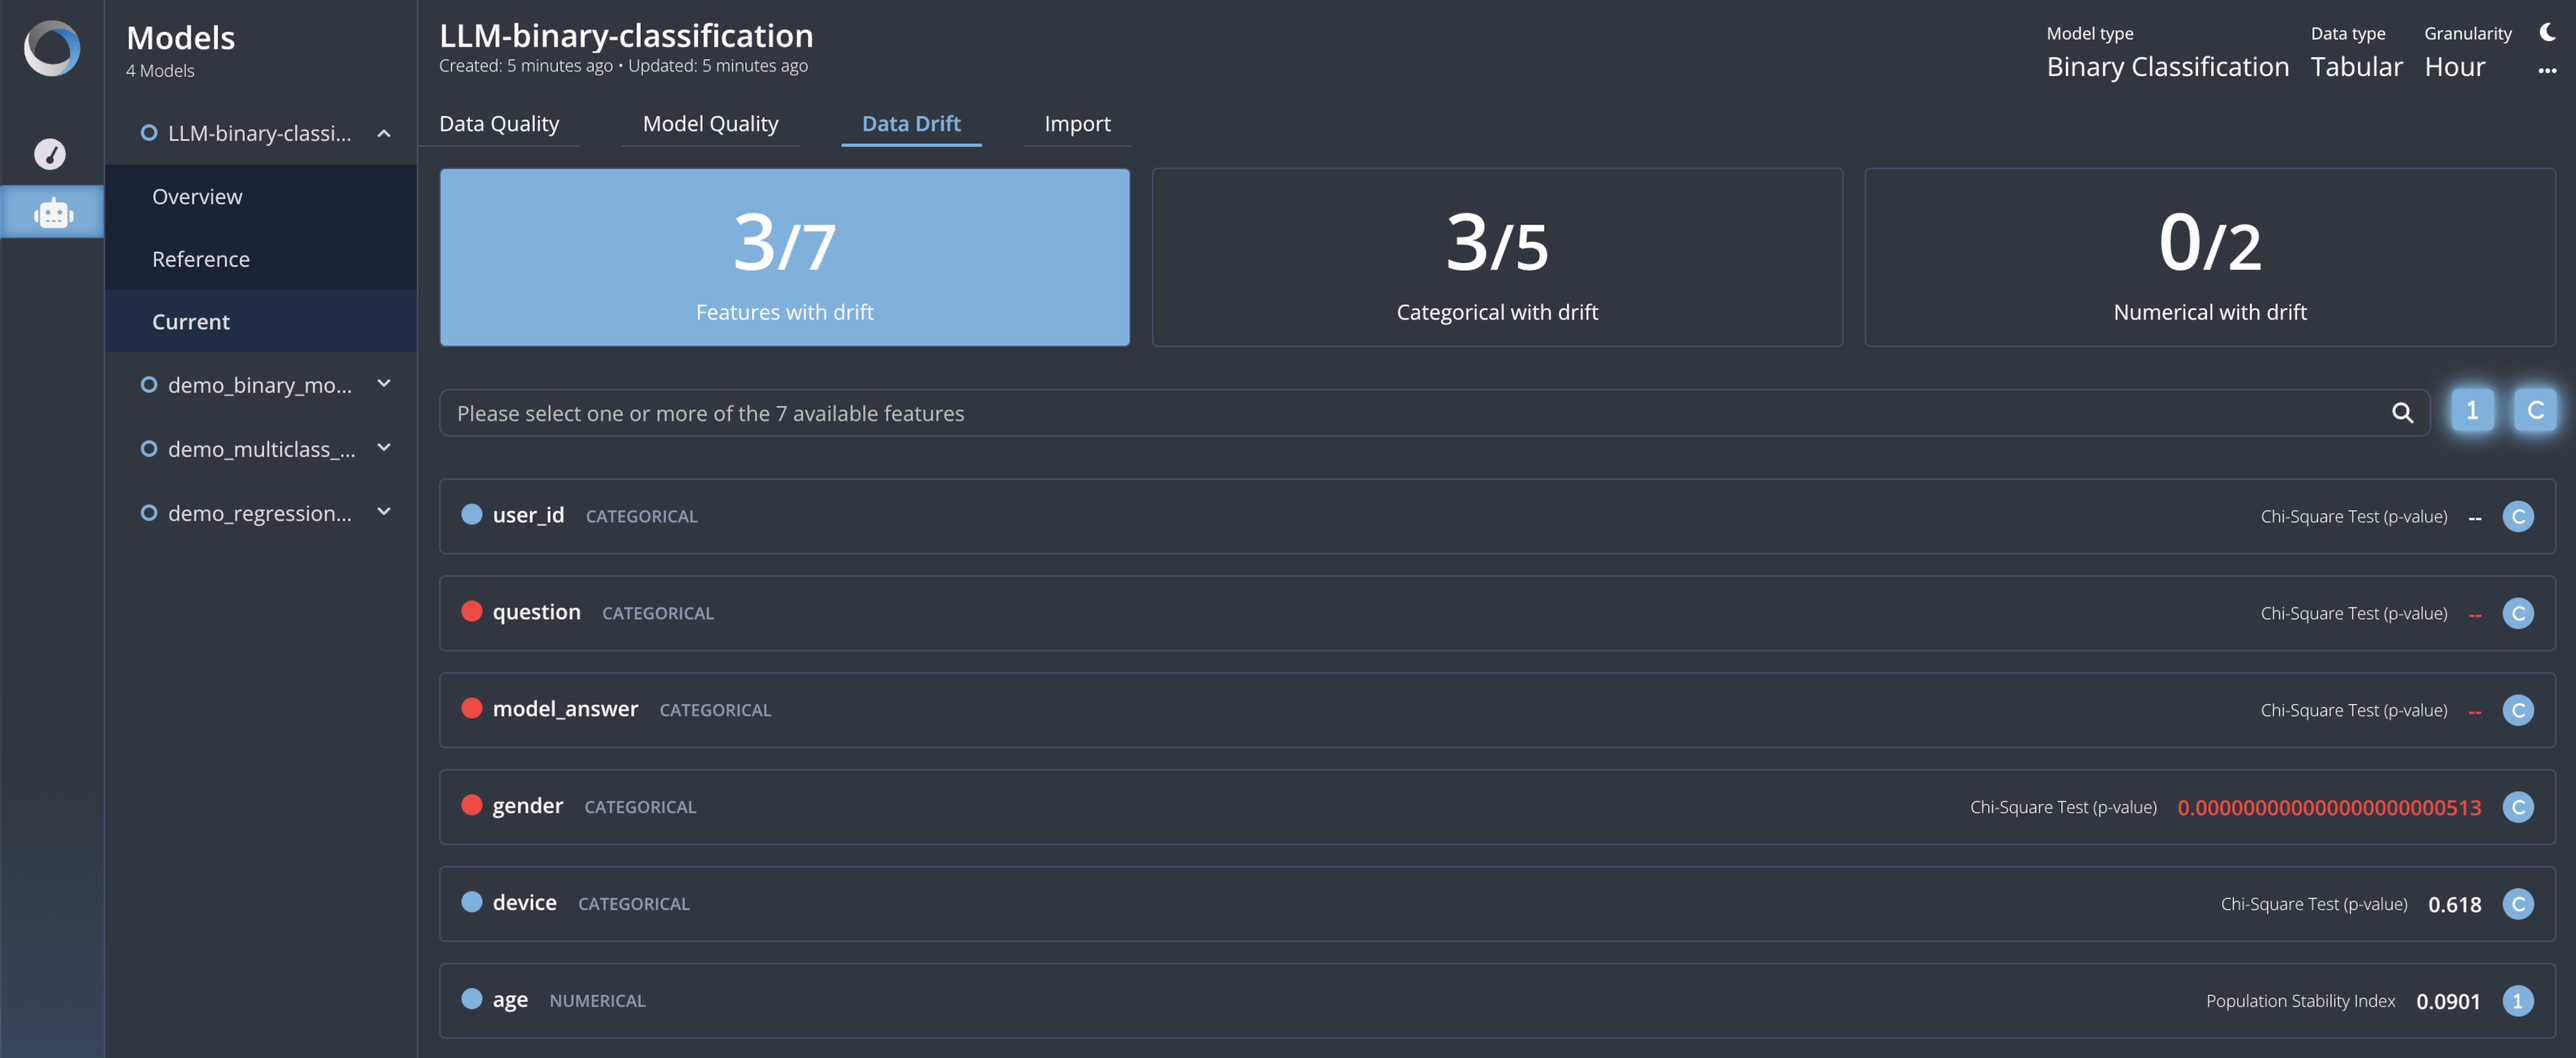
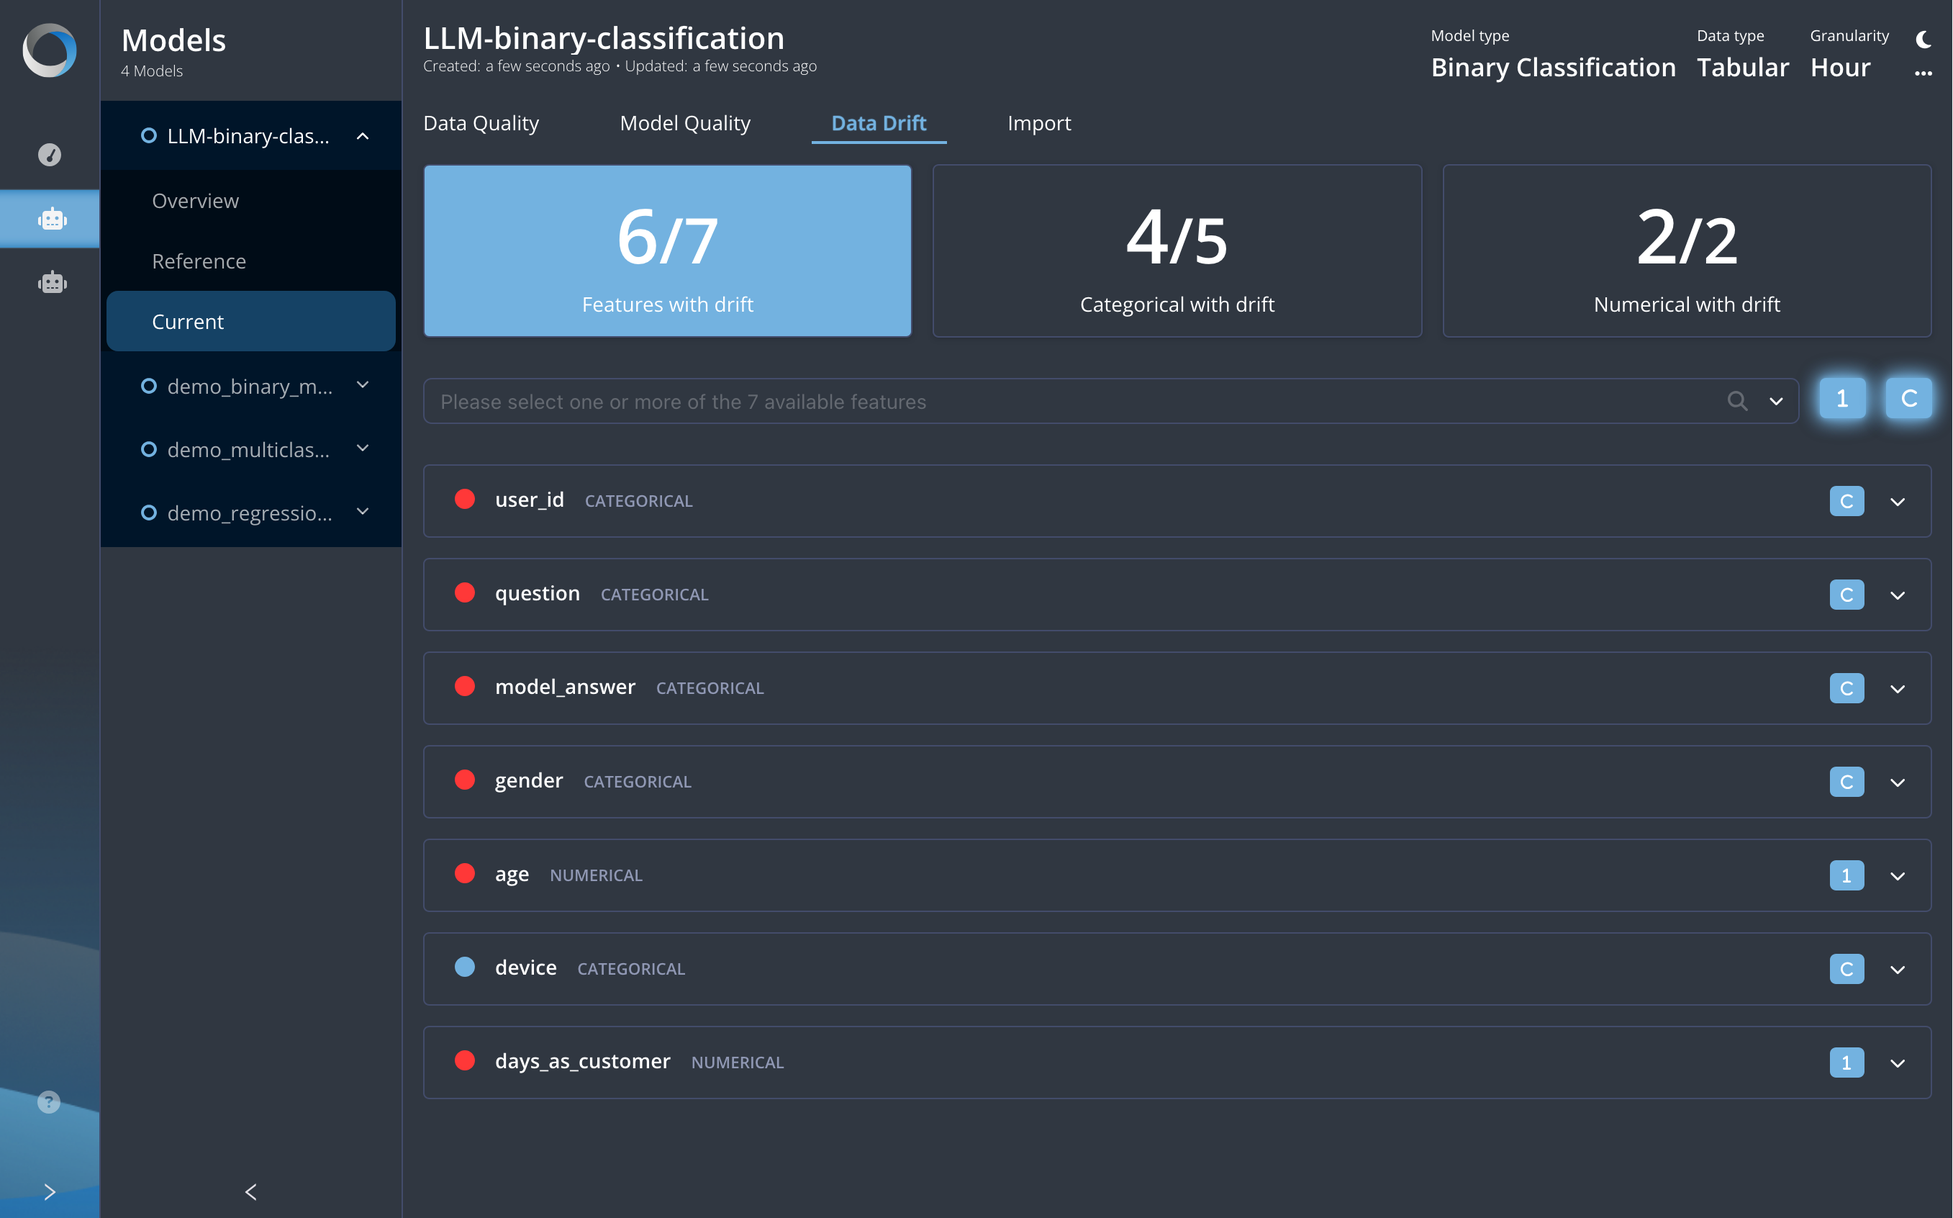
feat: add new drift doc (#157)
* feat" add new drift algo to all-metrics

* feat: add drift conf

* fix: refactor all metrics

* fix: refactor

* fix: refactor model

* feat: add descr for current

* feat: add drift details

* feat: remove alpha

* fix: new multi drift images

---------

diff --git a/docs/docs/sdk/python-sdk.md b/docs/docs/sdk/python-sdk.md
@@ -36,6 +36,8 @@ The available methods of a client instance are:
 		OutputType,
 		Granularity,
 		SupportedTypes,
+ 		DriftMethod,
+ 		DriftAlgorithmType
 	)
 
 	model_definition = CreateModel(
@@ -45,44 +47,84 @@ The available methods of a client instance are:
 		granularity=Granularity.HOUR,
 		features=[
 			ColumnDefinition(
-				name="first_name",
+				name="user_id",
 				type=SupportedTypes.string,
-				field_type=FieldType.categorical
+				field_type=FieldType.categorical,
+				drift=[
+					DriftMethod(
+ 						name=DriftAlgorithmType.JS, 
+ 						threshold=0.1
+ 					),
+					DriftMethod(
+ 						name=DriftAlgorithmType.HELLINGER, 
+ 						threshold=0.1
+ 					),
+				],
 			),
 			ColumnDefinition(
-				name="last_name",
+				name="question",
 				type=SupportedTypes.string,
-				field_type=FieldType.categorical
+				field_type=FieldType.categorical,
+			),
+			ColumnDefinition(
+				name="model_answer",
+				type=SupportedTypes.string,
+				field_type=FieldType.categorical,
+			),
+			ColumnDefinition(
+				name="gender",
+				type=SupportedTypes.string,
+				field_type=FieldType.categorical,
 			),
 			ColumnDefinition(
 				name="age",
 				type=SupportedTypes.int,
-				field_type=FieldType.numerical
+				field_type=FieldType.numerical,
+			),
+			ColumnDefinition(
+				name="device",
+				type=SupportedTypes.string,
+				field_type=FieldType.categorical,
+			),
+			ColumnDefinition(
+				name="days_as_customer",
+				type=SupportedTypes.int,
+				field_type=FieldType.numerical,
+				drift=[
+					DriftMethod(
+ 						name=DriftAlgorithmType.WASSERSTEIN, 
+ 						threshold=0.1
+ 					),
+					DriftMethod(
+ 						name=DriftAlgorithmType.KS, 
+						p_value=0.05
+ 					),
+				],
 			),
 		],
 		outputs=OutputType(
 			prediction=ColumnDefinition(
-				name="prediction",
-				type=SupportedTypes.float,
-				field_type=FieldType.numerical
+				name="prediction", 
+ 				type=SupportedTypes.float, 
+ 				field_type=FieldType.numerical
 			),
 			output=[
 				ColumnDefinition(
-					name="adult",
-					type=SupportedTypes.string,
-					field_type=FieldType.categorical
+					name="prediction",
+					type=SupportedTypes.float,
+					field_type=FieldType.numerical,
 				)
 			],
 		),
 		target=ColumnDefinition(
-			name="prediction",
-			type=SupportedTypes.float,
-			field_type=FieldType.numerical
+			name="ground_truth", 
+ 			type=SupportedTypes.int, 
+ 			field_type=FieldType.numerical
 		),
 		timestamp=ColumnDefinition(
-			name="prediction_timestamp",
+			name="timestamp",
 			type=SupportedTypes.datetime,
-			field_type=FieldType.datetime
+			field_type=FieldType.datetime,
 		),
 	)
 
@@ -261,7 +303,37 @@ Its properties are:
 * **`name`**: The name of the column
 * **`type`**: The [SupportedTypes](#supportedtypes) of the data represented inside this column
 * **`field_type`**: The [FieldType](#fieldtype) of the field
+* **`drift`**: an optional list of [DriftMethod](#driftmethod), only available for `features` set
 
+> **Note: Configuring Drift Detection Methods**
+> 
+> How drift detection algorithms are applied depends on how you configure the `drift` parameter:
+> * **Specify Methods:** Provide a list of algorithm by specifying a list of `DriftMethod`. 
+> Drift will be calculated using **only these specified methods**.
+> * **Use Defaults:** If `drift` is **not provided** (or is `None`/`null`), 
+> the platform defaults to calculating drift using [**all available algorithms**](../all-metrics.md#data-drift) suitable for each variable's type.
+> * **Disable Drift:** Pass an **empty list** (`` `drift=[]` ``) to **skip all drift calculations** 
+> for that run. 
+
+
+
+### DriftMethod
+It defines the drift's method for the specific feature
+
+* **`name`**: [DriftAlgorithmType](#driftalgotithmtypes)
+* **`threshold`**: a threshold value
+* **`p_value`**: a p_value value
+
+### DriftAlgorithmType
+Enumeration that defines the Algorithm's type
+Available values are: 
+	* **`HELLINGER`** = [Hellinger Distance](../all-metrics.md#data-drift)
+    * **`WASSERSTEIN`** = [Wasserstein distance](../all-metrics.md#data-drift)
+    * **`KS`** = [Two-Sample Kolmogorov-Smirnov](../all-metrics.md#data-drift)
+    * **`JS`** = [Jensen Shannon Divergence](../all-metrics.md#data-drift)
+    * **`PSI`** = [Population Stability Index](../all-metrics.md#data-drift)
+    * **`CHI2`** = [Chi-Square Test](../all-metrics.md#data-drift)
+    * **`KL`** = [Kullback Leibler Divergence](../all-metrics.md#data-drift)
 
 ### SupportedTypes
 

diff --git a/docs/docs/quickstart.md b/docs/docs/quickstart.md
@@ -54,6 +54,7 @@ What follows is an example of data we will use in this tutorial:
 * **device:** it is the device used in the current session;
 * **days_as_customer:** it indicates how many days the user is a customer.
 
+
 ### Create the Model
 To create a new model, navigate to the *Models* section and click the plus (+) icon in the top right corner.
 
@@ -100,6 +101,17 @@ Match the following values to their corresponding fields:
 ![Alt text](/img/quickstart/new-model-modal-s4.png "Identify ground truth (target), timestamp, prediction, and probability fields")
 
 Click the *Save Model* button to finalize model creation.
+
+> **Note: Drift Configuration Source**
+>
+> Please be aware that customizing the drift detection methods (by specifying a list of algorithms or 
+> disabling drift with an empty list `[]`) 
+> is currently **only possible when creating the model using the [Python SDK](sdk/python-sdk.md#columndefinition)**.
+>
+> If you create the model via the **User Interface (UI)**, 
+> the platform will automatically apply the [**default drift calculation**](all-metrics.md#data-drift), 
+> using all available algorithms suitable for your data types. 
+
 
 ### Model details
 Entering into the model details, we can see three different main sections:
@@ -150,7 +162,7 @@ In detail, you can browse between 4 tabs:
 
 ![Alt text](/img/quickstart/current_model_quality.png "Import Reference")
 
-* **Model Drift:**  This tab provides information about potential changes in the data distributions, known as drift, which can lead to model degradation. The drift is detected according to the field type: Chi-square test for categorical variables and Two-Samples Kolmogorov-Smirnov test for numerical ones.
+* **Model Drift:**  This tab provides information about potential changes in the data distributions, known as drift, which can lead to model degradation. Drift is calculated using type-specific default algorithms.
 
 ![Alt text](/img/quickstart/current_model_drift.png "Import Reference")
 

diff --git a/docs/docs/model-sections/current.md b/docs/docs/model-sections/current.md
@@ -35,12 +35,28 @@ Differently from the reference section, here, the metrics are computed over time
 The **Data Drift** section contains the outcome of some drift detector executed for each variable.
 According to the field type (categorical or numerical), a specific drift is computed:
 
-- Categoricals: **Chi-Square Test**
-- Numerical: **2-Samples-KS Test** (for `float` variables), **PSI** (for `int` variables)
+- Categoricals: 
+  - **Chi-Square Test**
+  - **Jensen Shannon Distance**
+  - **Kullback-Liebler Divergence**
+  - **Hellinger Distance** 
+  
+- Numerical: 
+  - **2-Samples-KS Test** (for `float` variables) 
+  - **PSI** (for `int` variables)
+  - **Wasserstein Distance**
+  - **Jensen Shannon Distance**
+  - **Hellinger Distance**
+  - **Kullback-Liebler Divergence**
 
-If the dot placed at the side of the variable name is red, it means that a drift has been revealed and the relative chart (and statistical description) can be seen in the `Current/Data Quality` section.
+If the dot placed at the side of the variable name is red, it means that **at leats** one drift has been detected and the relative chart (and statistical description) can be seen in the `Current/Data Quality` section.
 
-![Alt text](/img/current/current-data-drift.png "Current Data Drift")
+Expand the card to view the drift status for each **individual feature**. A red dot indicates that drift has been detected for that feature; the calculated drift value and the detection threshold will also be displayed alongside it.
+
+Drift is detected for *Jensen Shannon Distance*, *Kullback-Liebler Divergence*, *Hellinger Distance*, *PSI*, *Wasserstein Distance*, and the *KS statistic* when the calculated value **exceeds a predefined threshold**. 
+For the *Chi-Square test*, drift is indicated if the resulting p-value is **less than or equal to the chosen significance level**.
+
+![Alt text](/img/current/current-data-multi-drift.png "Current Data Drift")
 
 
 ## Import

diff --git a/docs/docs/all-metrics.md b/docs/docs/all-metrics.md
@@ -81,6 +81,15 @@ Summary with all variable name and type (float, int, string, datetime).
 ## Data Drift
 
 Data drift for all features using different algorithms depending on the data type: float, int, categorical. We use the following algorithms (but others will be added in the future):
-* [Chi-Square Test](https://en.wikipedia.org/wiki/Pearson%27s_chi-squared_test)
-* [Two-Sample Kolmogorov-Smirnov](https://en.wikipedia.org/wiki/Kolmogorov%E2%80%93Smirnov_test#Two-sample_Kolmogorov%E2%80%93Smirnov_test)
-* [Population Stability Index](https://scholarworks.wmich.edu/dissertations/3208/)
+- Numerical: 
+  * [Two-Sample Kolmogorov-Smirnov](https://en.wikipedia.org/wiki/Kolmogorov%E2%80%93Smirnov_test#Two-sample_Kolmogorov%E2%80%93Smirnov_test)
+  * [Population Stability Index](https://scholarworks.wmich.edu/dissertations/3208/)
+  * [Wasserstein Distance](https://en.wikipedia.org/wiki/Wasserstein_metric)
+  * [Jensen Shannon Divergence](https://en.wikipedia.org/wiki/Jensen%E2%80%93Shannon_divergence)
+  * [Hellinger Distance](https://en.wikipedia.org/wiki/Hellinger_distance)
+  * [Kullback Leibler Divergence](https://en.wikipedia.org/wiki/Kullback%E2%80%93Leibler_divergence)
+- Categorical:
+  * [Chi-Square Test](https://en.wikipedia.org/wiki/Pearson%27s_chi-squared_test)
+  * [Jensen Shannon Divergence](https://en.wikipedia.org/wiki/Jensen%E2%80%93Shannon_divergence)
+  * [Kullback Leibler Divergence](https://en.wikipedia.org/wiki/Kullback%E2%80%93Leibler_divergence)
+  * [Hellinger Distance](https://en.wikipedia.org/wiki/Hellinger_distance)
